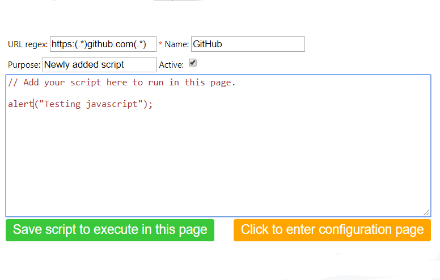
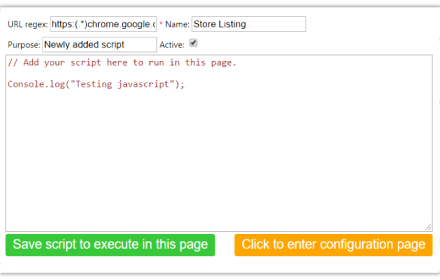
update extension url

diff --git a/README.md b/README.md
@@ -1,7 +1,7 @@
-# website-customise
-This project main goal is to automate daily used websites to be more sophisticated.
+# website-scripting
+This project main goal is to automate daily usage websites to be more sophisticated.
 
-Use a custom javascript attacher with this codes. Put this codes in the relevant websites and get more access to the website.
+Use a custom javascript attacher with this codes. Put this codes in the relevant websites and get more user friendly to the website.
 
 For reference use below extension.
-https://chrome.google.com/webstore/detail/custom-javascript-for-web/poakhlngfciodnhlhhgnaaelnpjljija
+https://chrome.google.com/webstore/detail/website-scripting/aggnfbkmhedkekjoplldenefbchaoiln
